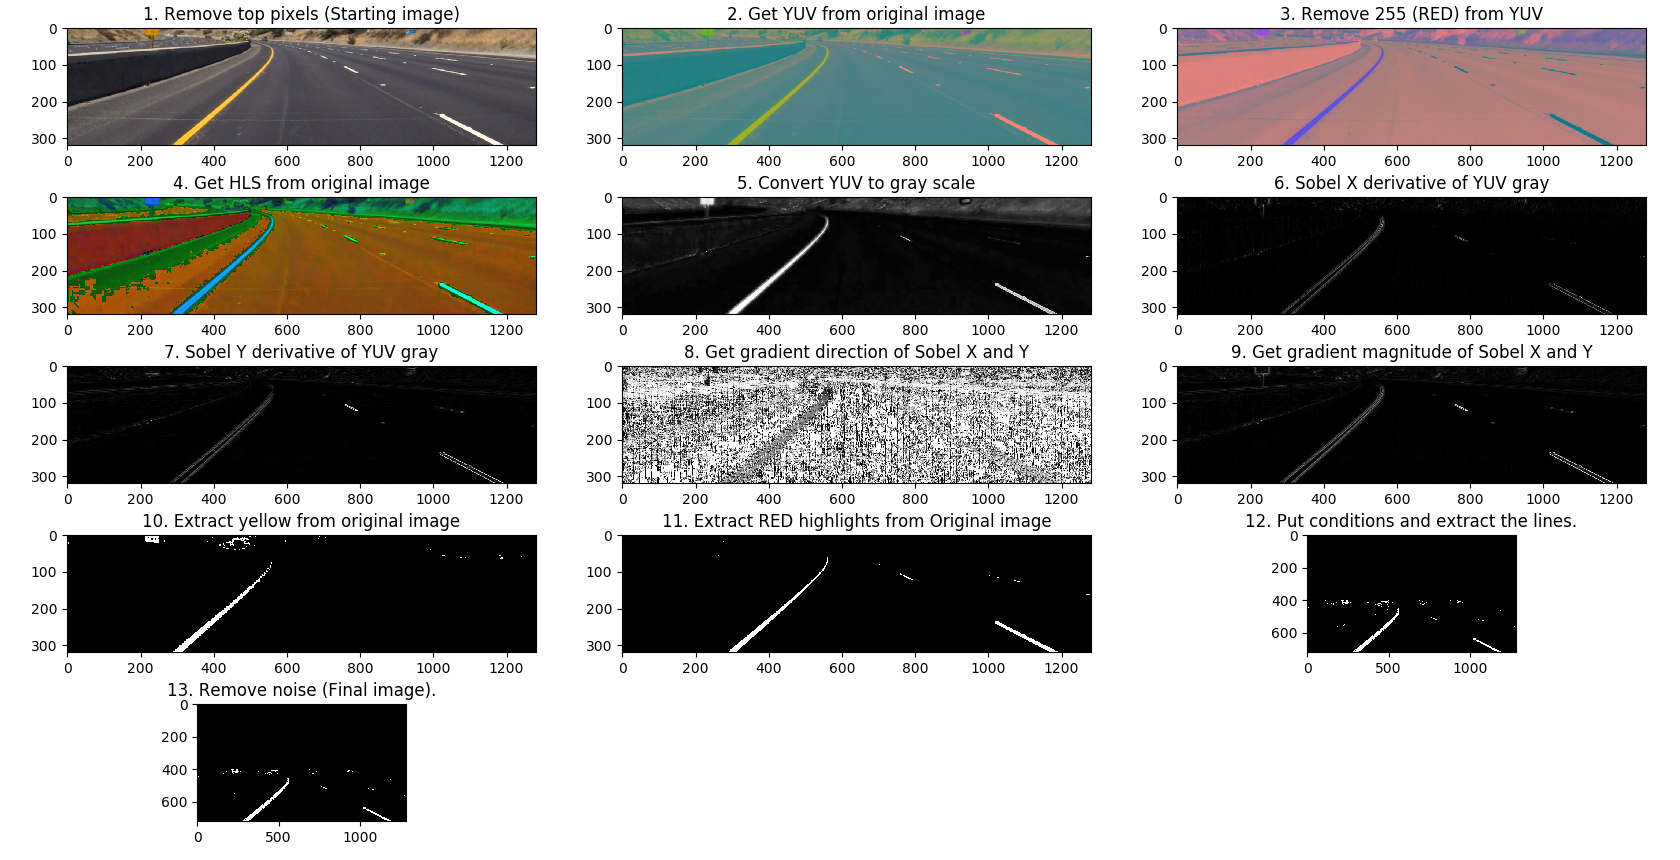
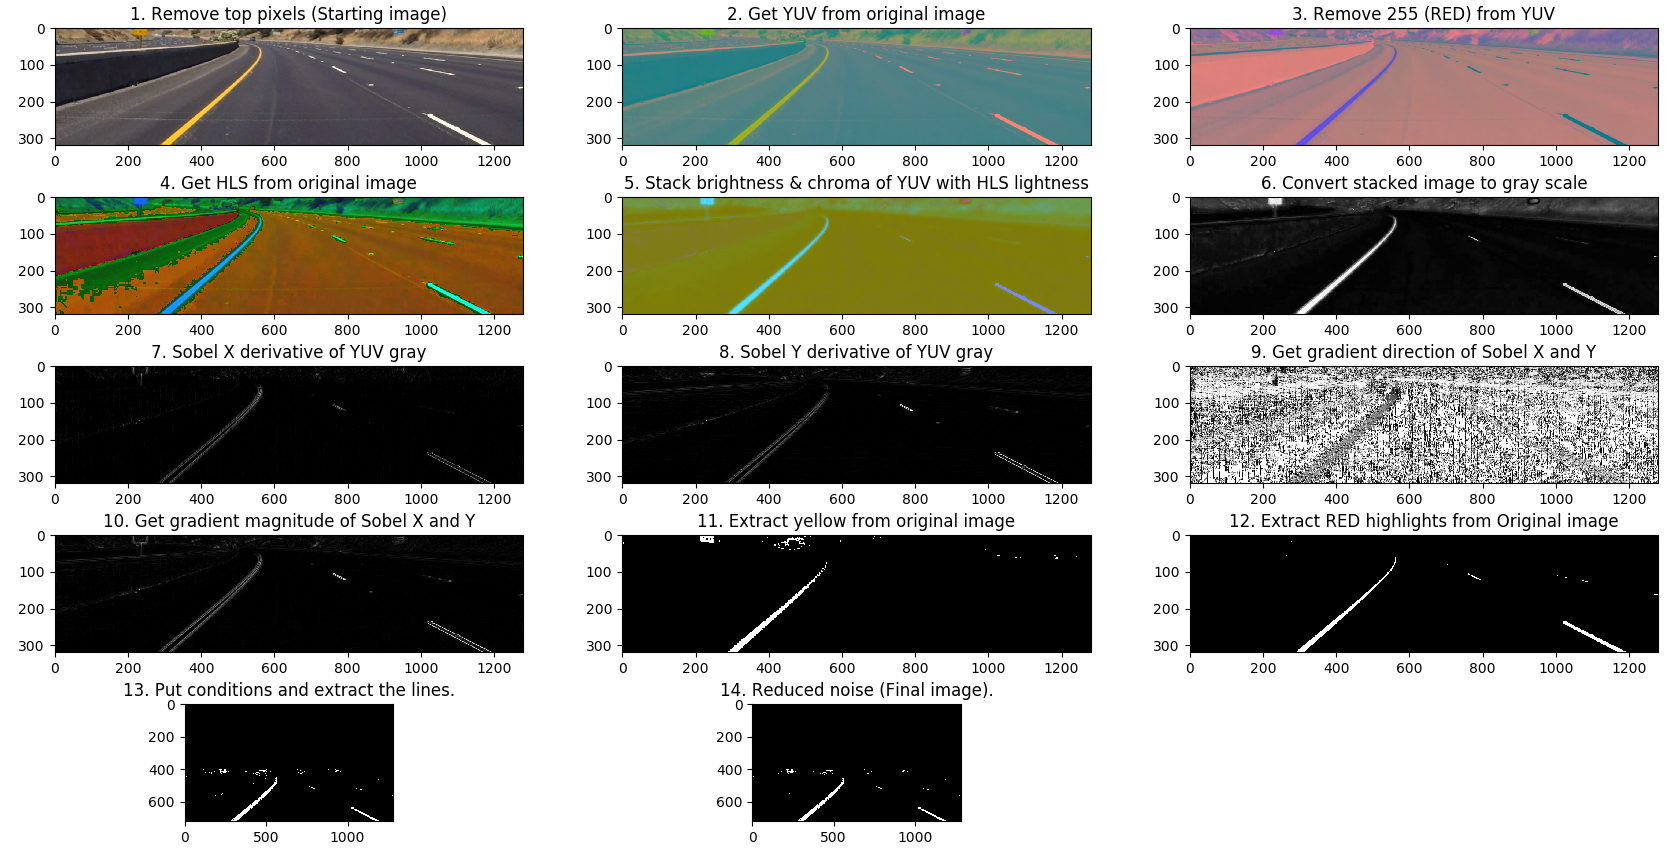
Image explained

diff --git a/Project_4/README.md b/Project_4/README.md
@@ -7,6 +7,7 @@
 - [1 Calibrate the Camera](#1-calibrate-the-camera)
 - [2 Change the Perspective](#2-change-the-perspective)
 - [3 Generate Lane Masking](#3-generate-lane-masking)
+	- [3.1 Step-by-step Explanation](#31-step-by-step-explanation)
 - [4 Detecting Lanes](#4-detecting-lanes)
 
 <!-- /TOC -->
@@ -48,8 +49,21 @@ Let's look at the image step-by-step without perspective transformation:
 
 ![Extracted lines](https://github.com/akshaybabloo/Car-ND/raw/master/Project_4/assets/extract_lines_no_per.png)
 
-Using OpenCV, the detection of the lanes are done as follows:
+### 3.1 Step-by-step Explanation
 
-
+1. First, read the image and remove the first `400` vertical pixels pixels'.
+2. After removing the image's pixels, Convert the image to `YUV` color space, where `Y` represents the brightness, `U` represents difference of `blue` & `brightness` (B-Y) and `V` represents the difference of `red` & `brightness` (R-Y)
+3. Then remove the `RED` hue from the `YUV` color space.
+4. Now, convert the original image to `HLS` color space, where `H` represents `Hue`, `L` represents `Lightness` and `S` represents `Saturation`.
+5. Stack the `brightness` & difference of `blue-brightness` of `YUV` with `HLS`'s `Lightness`.
+6. Convert the stacked image to grayscale.
+7. Take the Sobel derivative of the gray scaled image in `X` direction.
+8. Take the Sobel derivative of the gray scaled image in `Y` direction.
+9. Calculate the direction of the gradient for `X` and `Y` Sobel.
+10. Calculate the gradient magnitude of Sobel `X` and `Y`.
+11. Extract `Yellow` pixels from the original image.
+12. Extract `Red` highlights from original image.
+13. Create a binary image using the conditions at line `d` of `helper.py`
+14. Reduce binary noise.
 
 ## 4 Detecting Lanes
